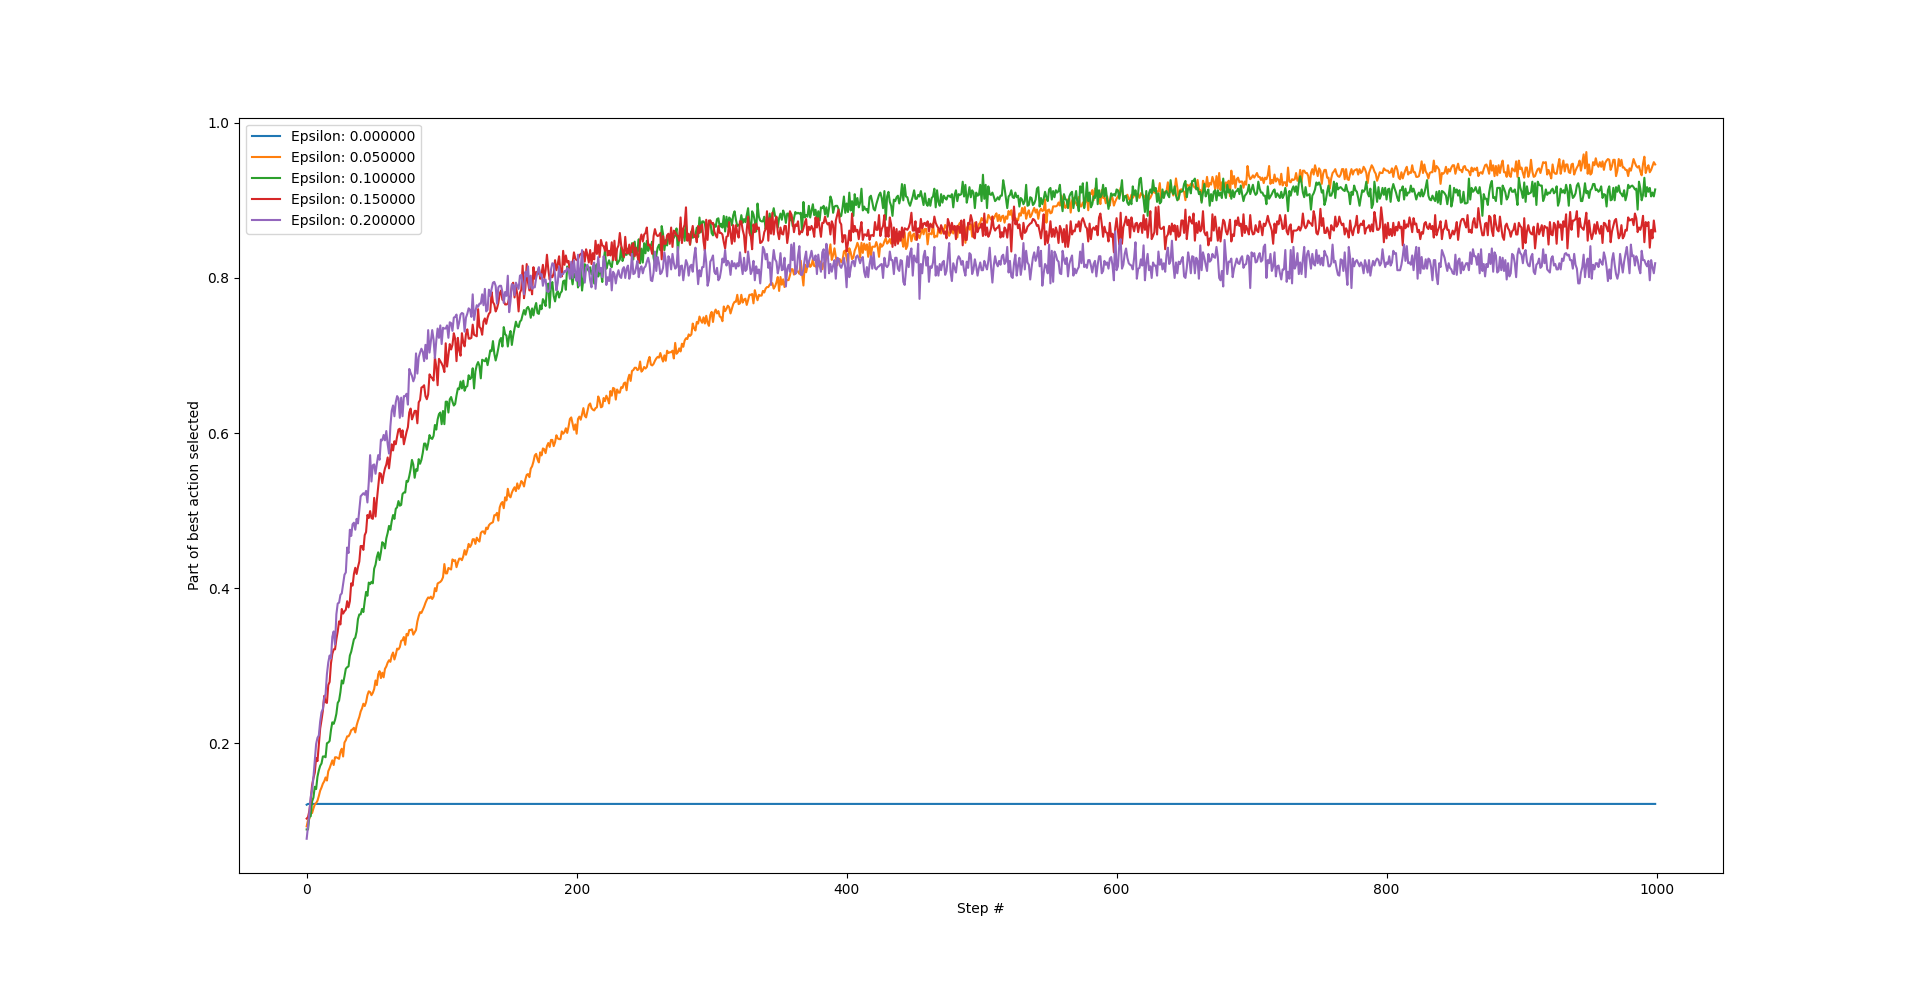
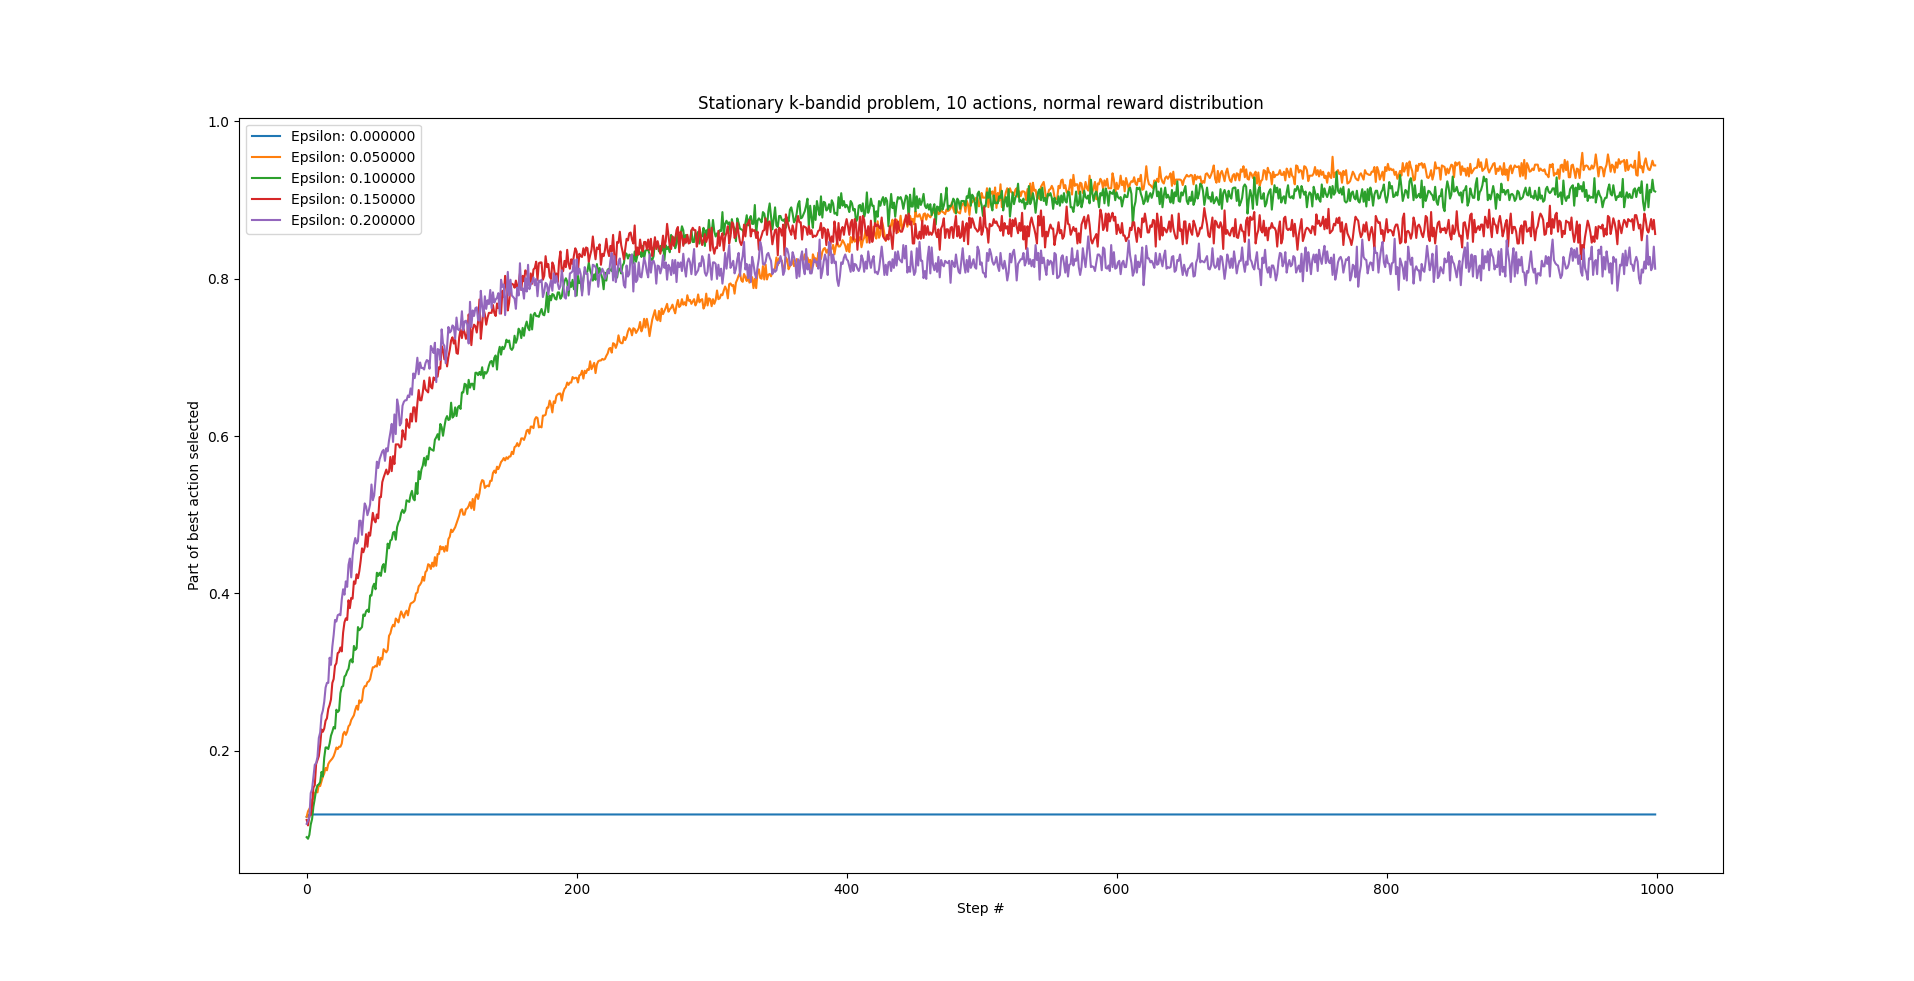
[ml][rl] Non-stationary k-bandid problem
* added simulation for non-stationary k-bandid
  problem
* result as expected: for averaged rewards - the
  performance dropped significantly

Changed region(s): [[0.1541, 0.1529, 0.8631, 0.8563], [0.3699, 0.0917, 0.6473, 0.1223]]

diff --git a/eduinteractive/k-bandit/non_stationary_k_bandid.py b/eduinteractive/k-bandit/non_stationary_k_bandid.py
@@ -6,7 +6,7 @@ from matplotlib import pyplot as plt
 class Env:
     def __init__(self, k):
         self.centers = np.random.normal(10.0, 5.0, k)
-        self.sigmas = np.full((10,1), 0.1)#np.abs(np.random.normal(5.0, 2.0, k))
+        self.sigmas = np.abs(np.random.normal(5.0, 2.0, k))
 
     def action(self, idx):
         return np.random.normal(self.centers[idx], self.sigmas[idx])
@@ -17,6 +17,51 @@ class Env:
     def __str__(self):
         return ("Best action index: %s\ndistribution centers: %s"
                 % (str(self.get_best_action_idx()), str(self.centers)))
+
+class NonStationaryEnv:
+    def __init__(self, k, stationary=False):
+        self.k = k
+        self.centers = np.random.normal(10.0, 5.0, k)
+        self.sigmas = np.abs(np.random.normal(5.0, 2.0, k))
+        # abs center shift per 100 actions
+        if stationary:
+            self.migration = np.zeros(shape=(k,))
+        else:
+            self.migration = np.random.normal(3.0, 3.0, k)
+        self.time = 0.0;
+
+    def get_current_center(self, idx):
+        return self.centers[idx] + self.migration[idx] * self.time / 100.0
+
+    def action(self, idx):
+        # non-stationary task: the action result slowly migrates with time
+        value = np.random.normal(self.get_current_center(idx), self.sigmas[idx])
+        self.time += 1.0
+        return value
+
+    # returns a matrix-string of best index values over the history
+    # @steps the number of steps for the
+    #
+    # RETURNS: (steps,) shaped array of best action indexes vs time step
+    def get_best_action_idx(self, steps=1000):
+        best_idx = np.zeros(shape=(steps,))
+        for t in range(steps):
+            self.time = float(t)
+            max_idx = 0
+            max_val = self.get_current_center(max_idx)
+            for i in range(self.k):
+                val = self.get_current_center(i)
+                if (val > max_val):
+                    max_val = val
+                    max_idx = i
+            best_idx[t] = max_idx
+
+        return best_idx
+
+    def __str__(self):
+        return ("Best action index: %s\ndistribution centers: %s"
+                % (str(self.get_best_action_idx()), str(self.centers)))
+
 
 
 # Simple agent for k-armed problem
@@ -72,7 +117,7 @@ class Agent:
 
 
 def run_single_experiment():
-    current_env = Env(10)
+    current_env = NonStationaryEnv(10)
 
     a = Agent(10)
     history, cummulative_reward = a.run_agent(current_env, 1000, {'epsilon' : 0.1})
@@ -92,7 +137,7 @@ def run_experiment_series():
 
     for epsilon in epsilon_variants:
         for i in range(experiments_count):
-            current_env = Env(10)
+            current_env = NonStationaryEnv(10)
 
             a = Agent(10)
             history, cummulative_reward = a.run_agent(current_env, 1000, {'epsilon' : epsilon})
@@ -111,8 +156,8 @@ def run_experiment_series():
     plt.xlabel('Step #')
     plt.ylabel('Part of best action selected')
 
-    plt.title('Stationary k-bandid problem, 10 actions, normal '
-              'reward distribution')
+    plt.title('Non-stationary k-bandid problem, 10 actions, normal '
+              'reward distribution, normal distribution shift with time')
 
     plt.show()
 
